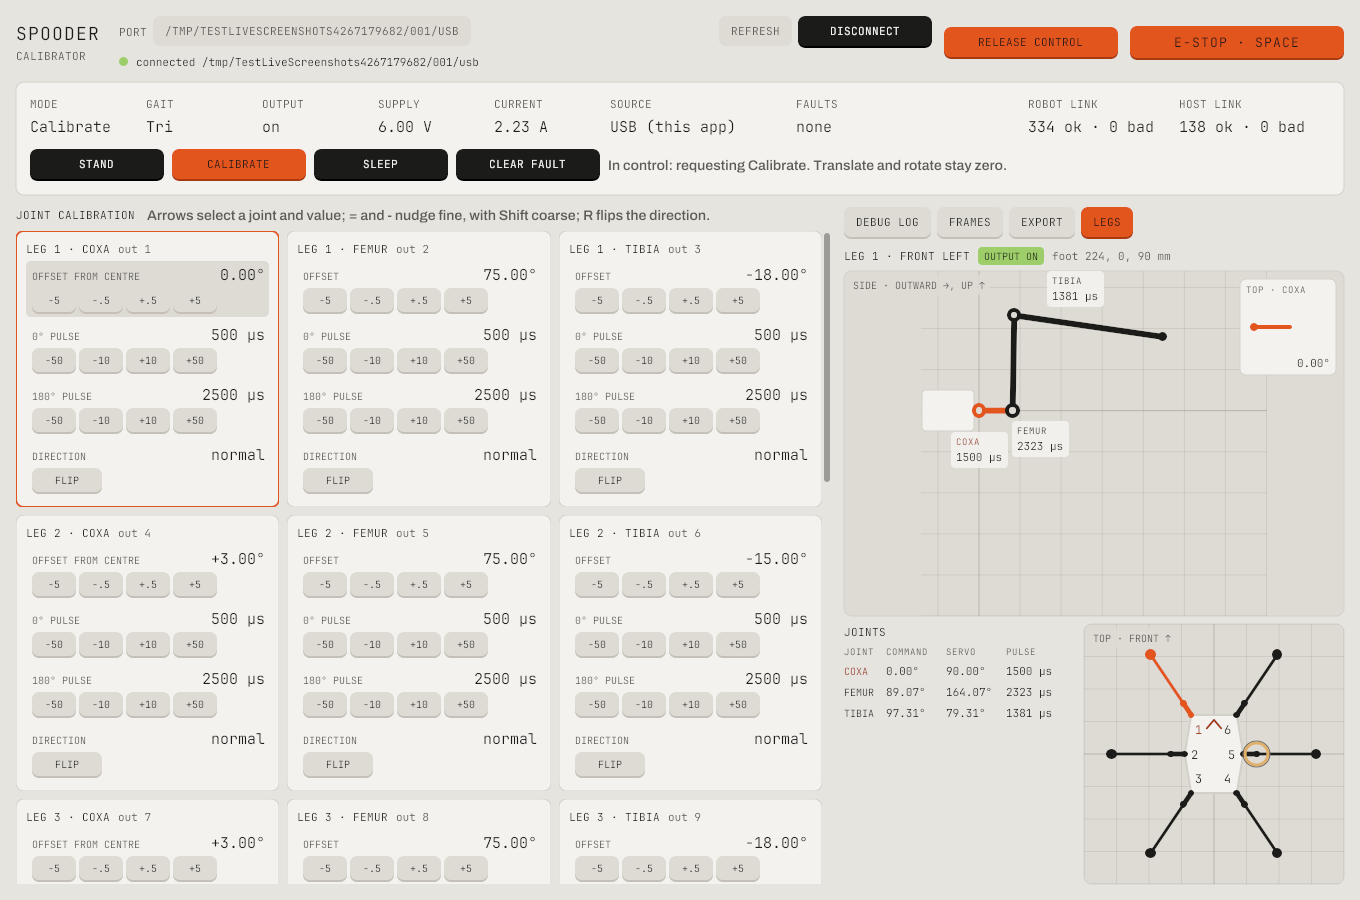
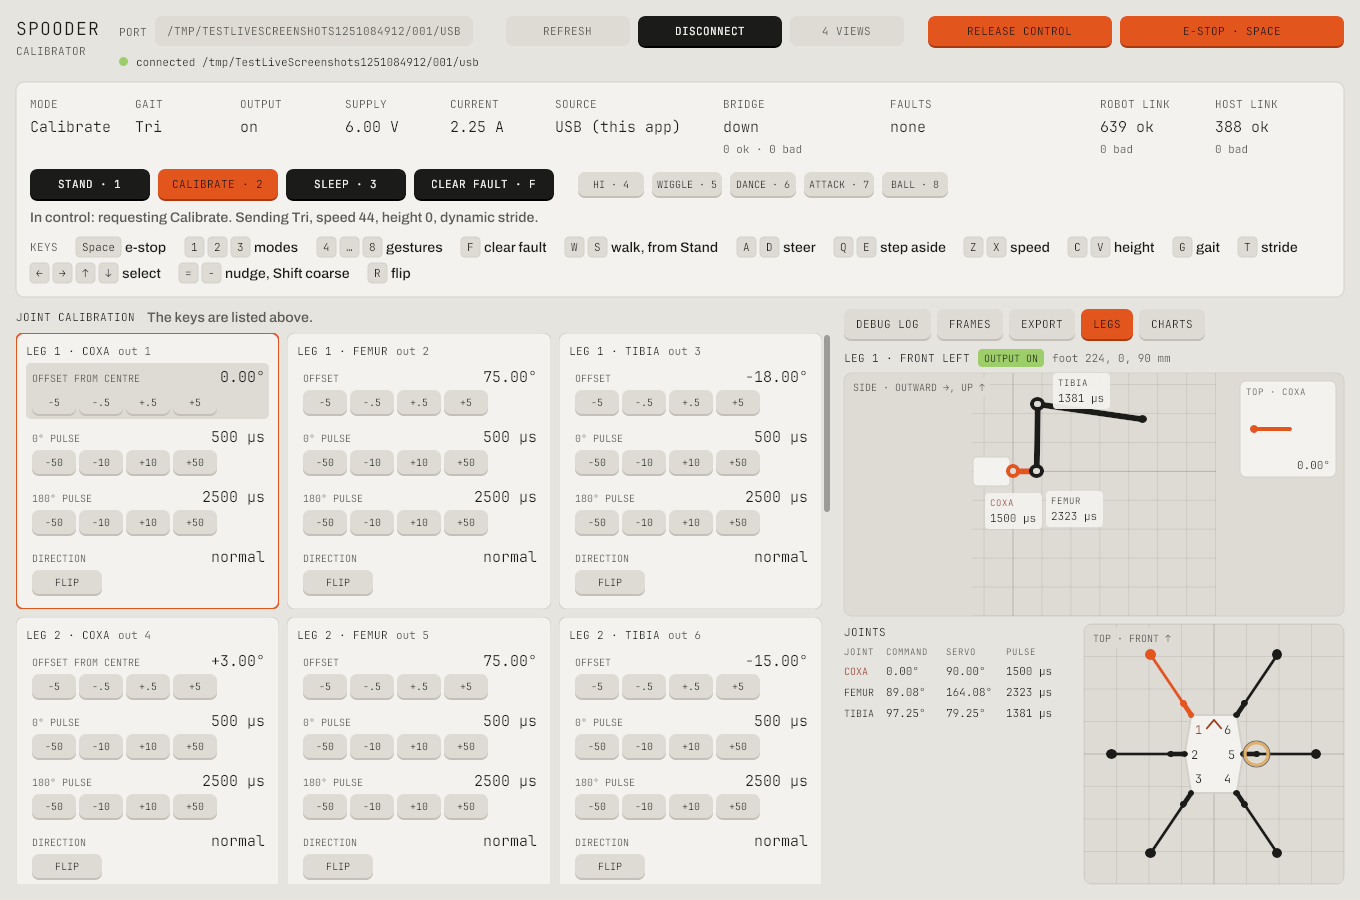
Add walking, charts, four-view and e-stop screenshots to the readme
The live screenshot test now also drives the virtual robot forward from
the keyboard and captures the legs pane, the charts tab and the four-view
window; the calibrator screenshot is refreshed for the current top bar.

Claude-Session: https://claude.ai/code/session_01TL58oGMyQMmeXMf1sbLFyX

diff --git a/desktop/internal/ui/screenshot_live_test.go b/desktop/internal/ui/screenshot_live_test.go
@@ -5,6 +5,7 @@ import (
 	"image/png"
 	"os"
 	"path/filepath"
+	"sync/atomic"
 	"testing"
 	"time"
 
@@ -78,6 +79,17 @@ func TestLiveScreenshots(t *testing.T) {
 			}
 			frame(w, router)
 		}
+		save := func(name string, img image.Image) {
+			t.Helper()
+			f, err := os.Create(filepath.Join(dir, "live-"+theme+"-"+name+".png"))
+			if err != nil {
+				t.Fatal(err)
+			}
+			defer f.Close()
+			if err := png.Encode(f, img); err != nil {
+				t.Fatal(err)
+			}
+		}
 		shoot := func(name string) {
 			t.Helper()
 			var ops op.Ops
@@ -92,14 +104,29 @@ func TestLiveScreenshots(t *testing.T) {
 			if err := hw.Screenshot(img); err != nil {
 				t.Fatal(err)
 			}
-			f, err := os.Create(filepath.Join(dir, "live-"+theme+"-"+name+".png"))
-			if err != nil {
+			save(name, img)
+		}
+		// The four-view window, on the same session.
+		viewsEnv := w.env
+		viewsEnv.Selection = new(atomic.Int32)
+		views, err := newViewsWindow(viewsEnv)
+		if err != nil {
+			t.Fatal(err)
+		}
+		shootViews := func(name string) { // on the same GPU context, at the same size
+			t.Helper()
+			var ops op.Ops
+			gtx := layout.Context{Ops: &ops, Metric: unit.Metric{PxPerDp: 1, PxPerSp: 1},
+				Constraints: layout.Exact(image.Pt(width, height)), Now: nextFrameTime(), Source: new(input.Router).Source()}
+			views.frame(gtx)
+			if err := hw.Frame(&ops); err != nil {
 				t.Fatal(err)
 			}
-			defer f.Close()
-			if err := png.Encode(f, img); err != nil {
+			img := image.NewRGBA(image.Rectangle{Max: image.Pt(width, height)})
+			if err := hw.Screenshot(img); err != nil {
 				t.Fatal(err)
 			}
+			save(name, img)
 		}
 
 		// Connected and observing: the preselected --port, Connect.
@@ -113,8 +140,32 @@ func TestLiveScreenshots(t *testing.T) {
 		time.Sleep(1200 * time.Millisecond) // a status line with the supply settled
 		shoot("observing")
 
-		// In control, Calibrate, a change awaiting the robot's confirmation.
+		// In control, walking forward from the keyboard: the legs pane, the
+		// charts and the four views.
 		click(w, router, &w.control)
+		click(w, router, &w.modes[0]) // Stand
+		waitFor("Stand", func(s session.Snapshot) bool {
+			return s.Body == session.BodyStand && s.Telemetry.OutputsOn
+		})
+		time.Sleep(2 * time.Second) // settled
+		if err := s.SetDrive(session.Drive{Forward: true}); err != nil {
+			t.Fatal(err)
+		}
+		waitFor("Walk", func(s session.Snapshot) bool { return s.Body == session.BodyWalk })
+		time.Sleep(4 * time.Second) // into the stride, with history to chart
+		w.tab = tabLegs
+		frame(w, router)
+		shoot("walking-legs")
+		w.tab = tabCharts
+		frame(w, router)
+		shoot("walking-charts")
+		shootViews("walking-views")
+		if err := s.SetDrive(session.Drive{}); err != nil {
+			t.Fatal(err)
+		}
+		w.tab = tabLog
+
+		// Calibrate, a change awaiting the robot's confirmation.
 		click(w, router, &w.modes[1]) // Calibrate
 		waitFor("Calibrate", func(s session.Snapshot) bool {
 			return s.Body == session.BodyCalibrate && s.Editable && s.Telemetry.OutputsOn

diff --git a/Readme.md b/Readme.md
@@ -48,6 +48,38 @@ flowchart LR
 - **Charts**: ten minutes of supply, current, link counters and robot internals (motion share, backstop, tick time), with CSV export.
 - **Keyboard driving**: walk, steer, step aside and change gait, speed, height and stride from the calibrator.
 
+## Screenshots
+
+All taken against the virtual robot, in the calibrator's dark or light look (following your system's).
+
+<picture>
+  <source media="(prefers-color-scheme: light)" srcset="docs/images/walking-legs-light.png">
+  <img alt="The calibrator in control, walking forward in the tri gait from the keyboard: the status strip, the key hints and the legs pane drawing leg 1 mid-stride" src="docs/images/walking-legs-dark.png">
+</picture>
+
+*Driving from the keyboard: walking forward in the tri gait, the legs pane following the reported pose.*
+
+<picture>
+  <source media="(prefers-color-scheme: light)" srcset="docs/images/four-views-light.png">
+  <img alt="The four-view window: the robot mid-stride from the top, isometrically from the front left, from the front and from the left, with the selected leg 1 highlighted and the ground line at the feet" src="docs/images/four-views-dark.png">
+</picture>
+
+*The four-view window (**4 views** in the top bar): top, isometric, front and left, from the same pose.*
+
+<picture>
+  <source media="(prefers-color-scheme: light)" srcset="docs/images/charts-light.png">
+  <img alt="The charts tab: supply voltage with its limits, servo current with the trip and sustained limits, and the frames accepted and rejected on each link" src="docs/images/charts-dark.png">
+</picture>
+
+*The charts tab: ten minutes of supply, current, link and robot-internal history, with CSV export.*
+
+<picture>
+  <source media="(prefers-color-scheme: light)" srcset="docs/images/estop-light.png">
+  <img alt="The calibrator after an emergency stop: the red banner, the fault in the status strip, output off, and the debug log showing the fault latching and movement stopping" src="docs/images/estop-dark.png">
+</picture>
+
+*An emergency stop: the fault latches, output turns off, and the debug log records why.*
+
 ## Getting started
 
 [mise](https://mise.jdx.dev) provides every toolchain. The SDKs are pinned git submodules.
